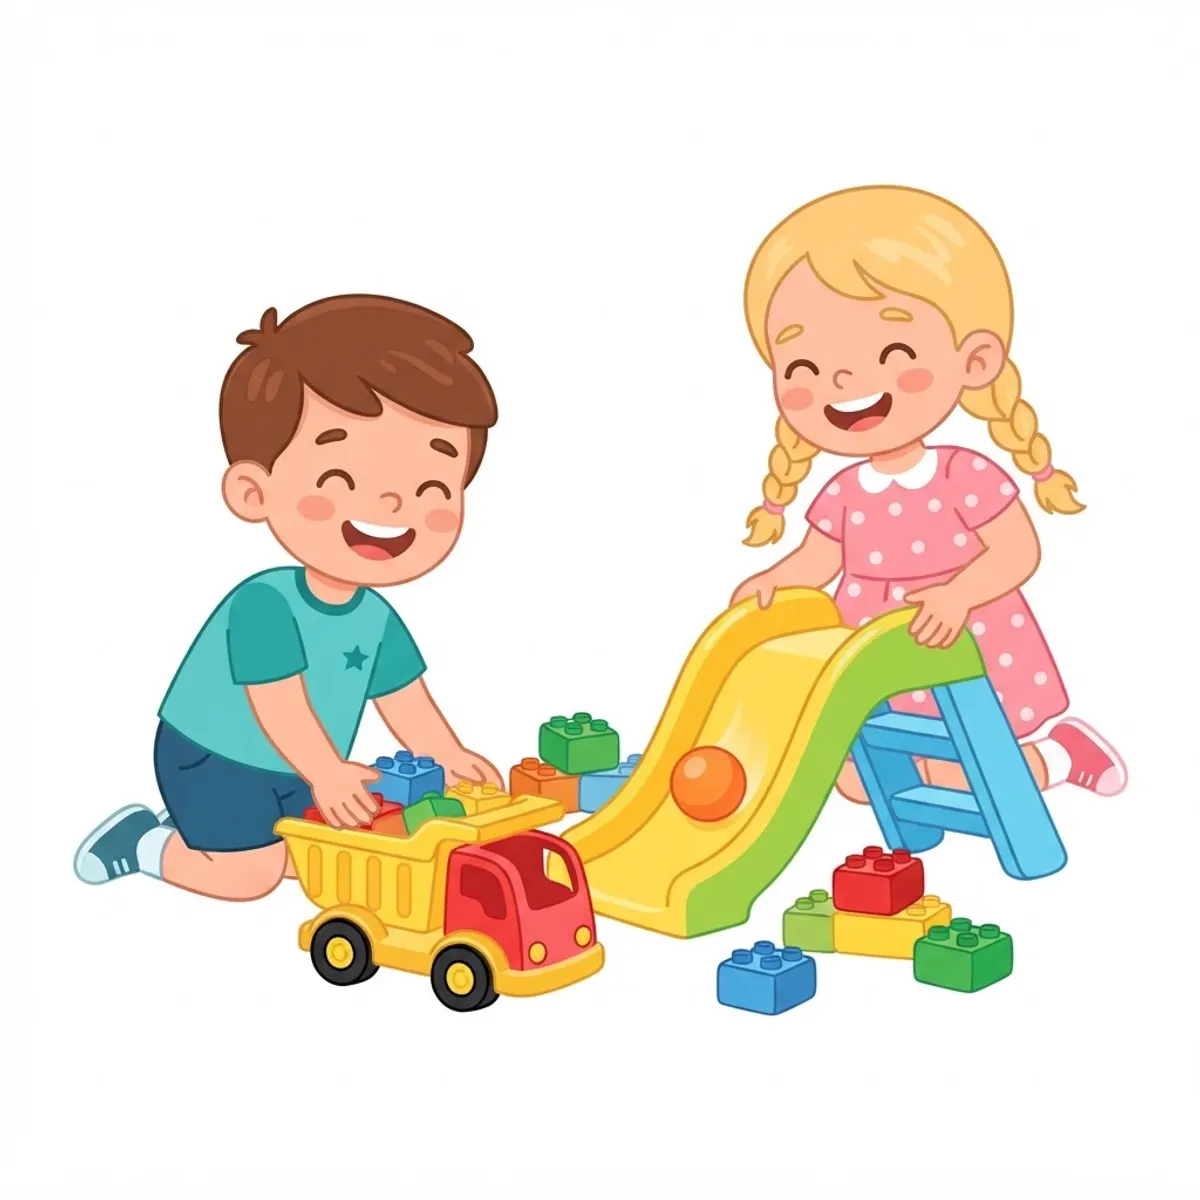
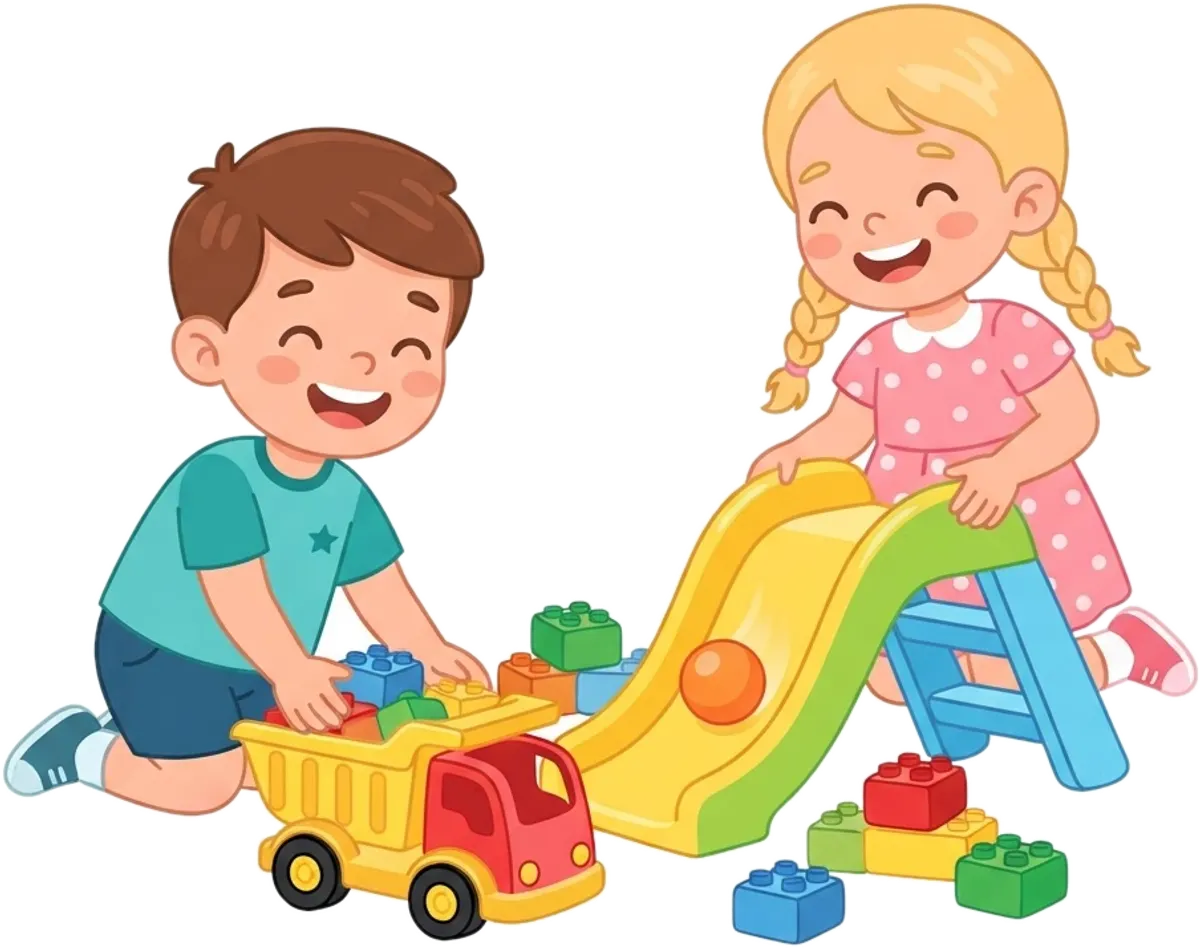
«Шуақ»: рисунок без белого фона, в подвале не наезжает на контакты

diff --git a/src/themes/shuaq/theme.css b/src/themes/shuaq/theme.css
@@ -240,7 +240,6 @@
   margin-inline: auto;
   aspect-ratio: 1;
   object-fit: contain;
-  mix-blend-mode: multiply;
 }
 
 @media (min-width: 1024px) {
@@ -666,13 +665,16 @@
   color: rgb(246 236 255);
 }
 
+/* Рисунок стоит в отведённом внизу месте и не наезжает на контакты. */
+[data-theme='shuaq'] .shuaq-footer-body > .container-page {
+  padding-bottom: 7.5rem;
+}
+
 [data-theme='shuaq'] .shuaq-footer-kids {
   position: absolute;
   right: 2%;
   bottom: 0;
-  width: 13rem;
-  opacity: 0.35;
-  mix-blend-mode: screen;
+  width: 9.5rem;
   pointer-events: none;
 }
 
